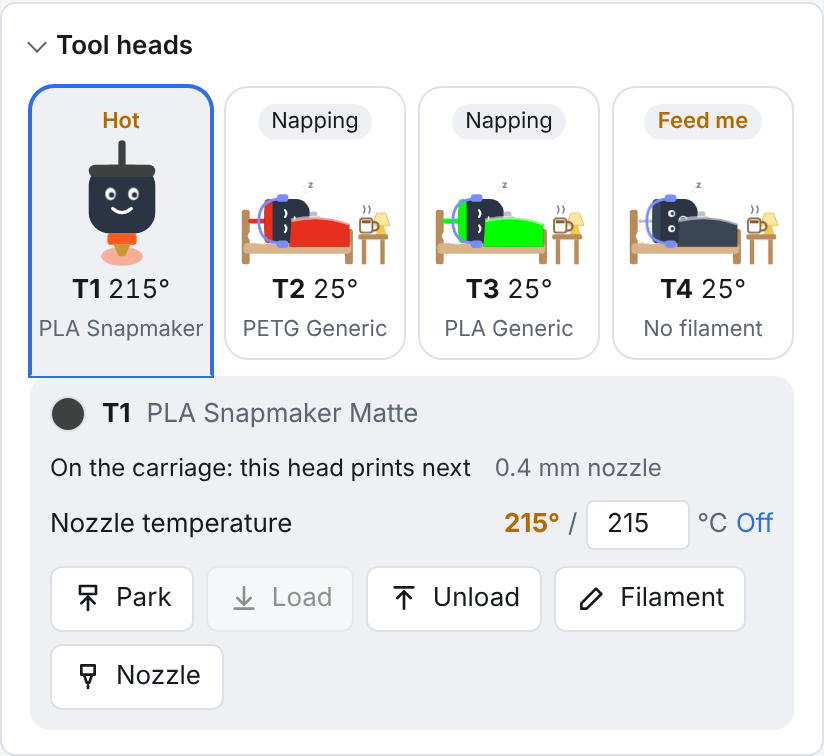
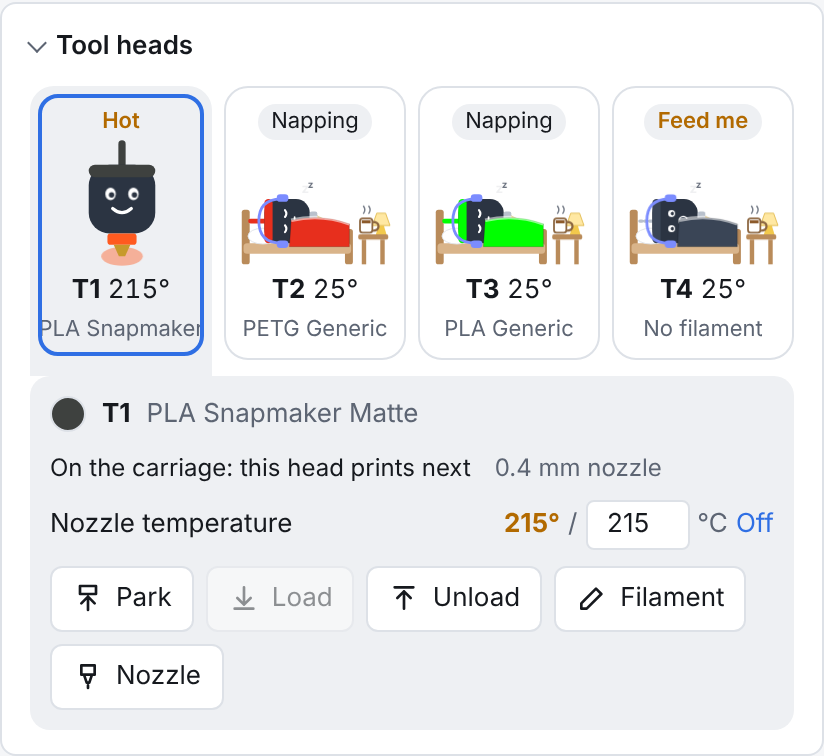
Device: the blue frame stays a closed rounded ring when the carriage head is the open tab
Claude-Session: https://claude.ai/code/session_01NuZpi382jh2qaLFFDcqjx2

Changed region(s): [[0.0303, 0.0913, 0.2731, 0.5172]]

diff --git a/apps/web/src/styles.css b/apps/web/src/styles.css
@@ -3143,25 +3143,38 @@ select:focus-visible {
 .dv-heads:not(.one) {
   align-items: end;
 }
+.dv-head-tile {
+  position: relative;
+}
+/* The blue frame is drawn as a ring inside the tile, so it stays a closed rounded frame when the tile is a tab. */
 .dv-head.active .dv-head-tile {
-  border-color: var(--accent);
-  box-shadow: 0 0 0 1px var(--accent), 0 6px 14px color-mix(in srgb, var(--accent) 25%, transparent);
+  border-color: transparent;
+  box-shadow: 0 6px 14px color-mix(in srgb, var(--accent) 25%, transparent);
   transform: translateY(-4px);
+}
+.dv-head.active .dv-head-tile::after {
+  content: '';
+  position: absolute;
+  inset: -1px;
+  border: 2px solid var(--accent);
+  border-radius: 12px;
+  pointer-events: none;
 }
 .dv-head.selected .dv-head-tile {
   background: var(--surface-2);
+  border-color: transparent;
   border-bottom-left-radius: 0;
   border-bottom-right-radius: 0;
-  border-bottom-color: transparent;
   padding-bottom: 14px;
   margin-bottom: -8px;
 }
-.dv-head.selected:not(.active) .dv-head-tile {
-  border-color: transparent;
-}
 .dv-head.active.selected .dv-head-tile {
   transform: none;
-  box-shadow: 0 0 0 1px var(--accent);
+  box-shadow: none;
+}
+.dv-head.active.selected .dv-head-tile::after {
+  inset: 3px 3px 9px;
+  border-radius: 10px;
 }
 .dv-head-pic {
   display: grid;
